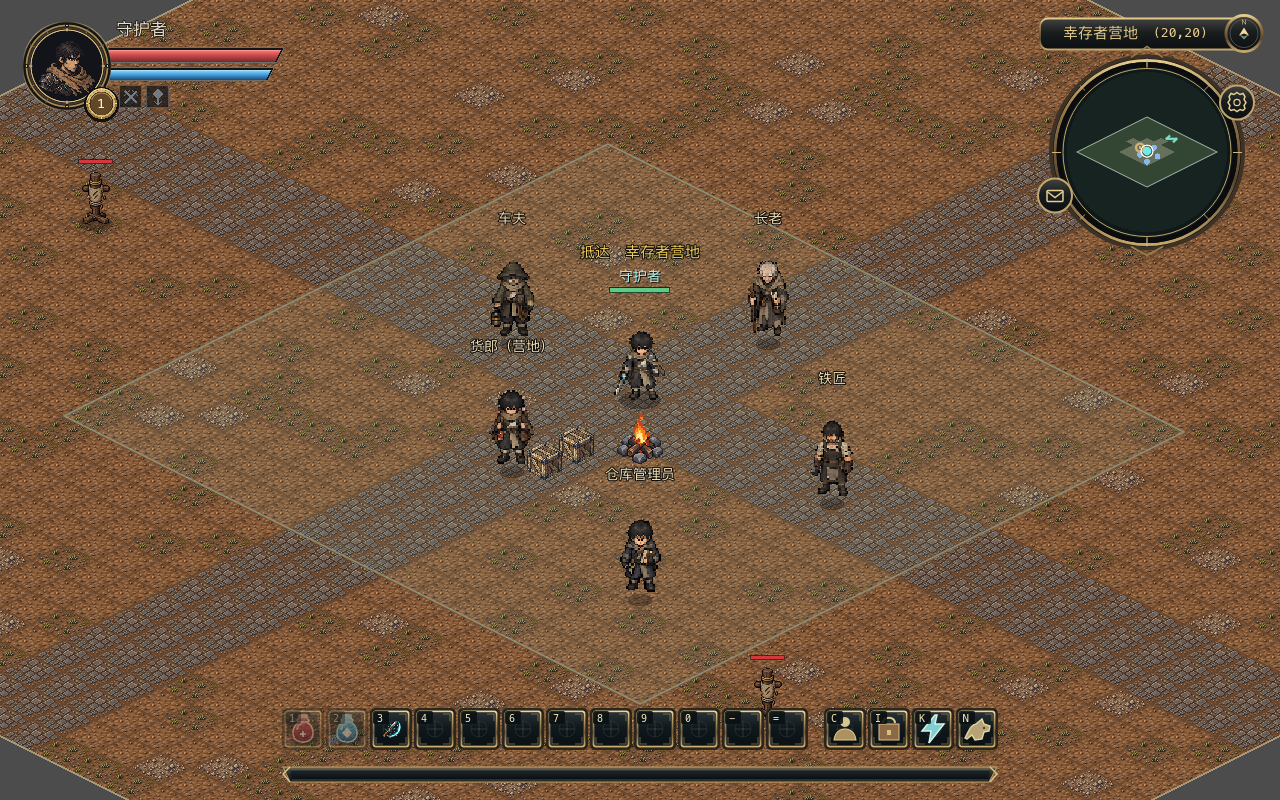
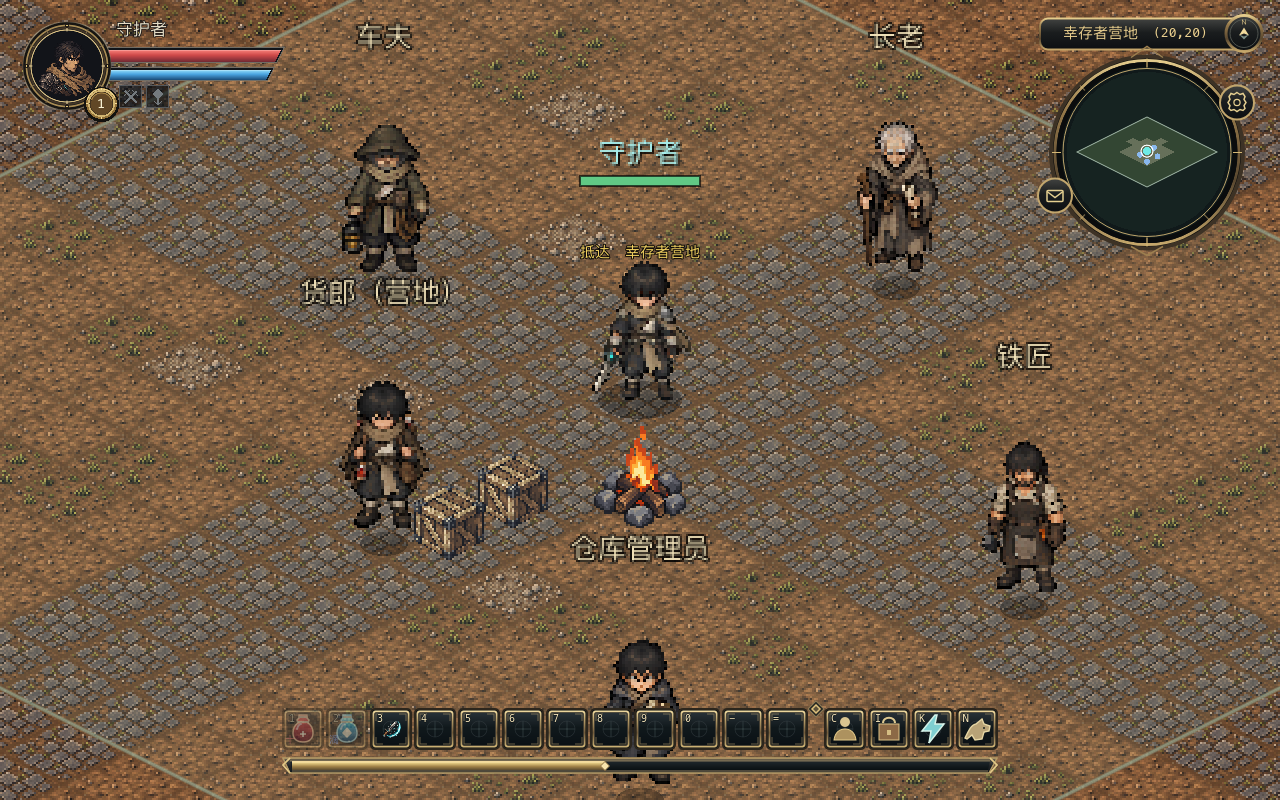
fix(ui): 修正快捷栏细节并恢复控制页改键列表

diff --git a/docs/素材设计/样板/快捷栏与经验条概念-v1/README.md b/docs/素材设计/样板/快捷栏与经验条概念-v1/README.md
@@ -15,3 +15,5 @@
 旧铁格框、红蓝自动药、基础斩击、四个面板入口及经验槽使用独立 SVG 资源；其余绑定仍沿用现有物品图标或文字回退。角标为运行时控件：默认显示 1–0、−、=、C/I/K/N，改键后实时读取当前设置；`Minus`、`Equal` 在角标中分别简写为 `−`、`=`，悬停仍显示完整键名。经验进度与精确数值继续由实时游戏状态驱动，数值只在悬停时显示。
 
 本次保留了现有拖放、右键清空、数量、冷却和固定入口行为。`HotbarUiTest` 覆盖等宽、改键刷新与高倍率同步缩放。
+
+实机复核后，经验填充改在槽底图上方、金属边框和菱形端点下方绘制，避免填充遮住外框；快捷栏与经验槽的垂直间距调整为设计稿的 7 px。键位角标取消半透明黑底，改为浅金文字配深色描边；操作格与固定入口之间补上菱形区隔符。设置面板「控制」页的键位列表改为使用选项卡自身的滚动区域，玩家可以再次看到并点击每个改键按钮。`SettingsTest` 验证从按钮进入改键状态、按键即时生效和列表刷新。
